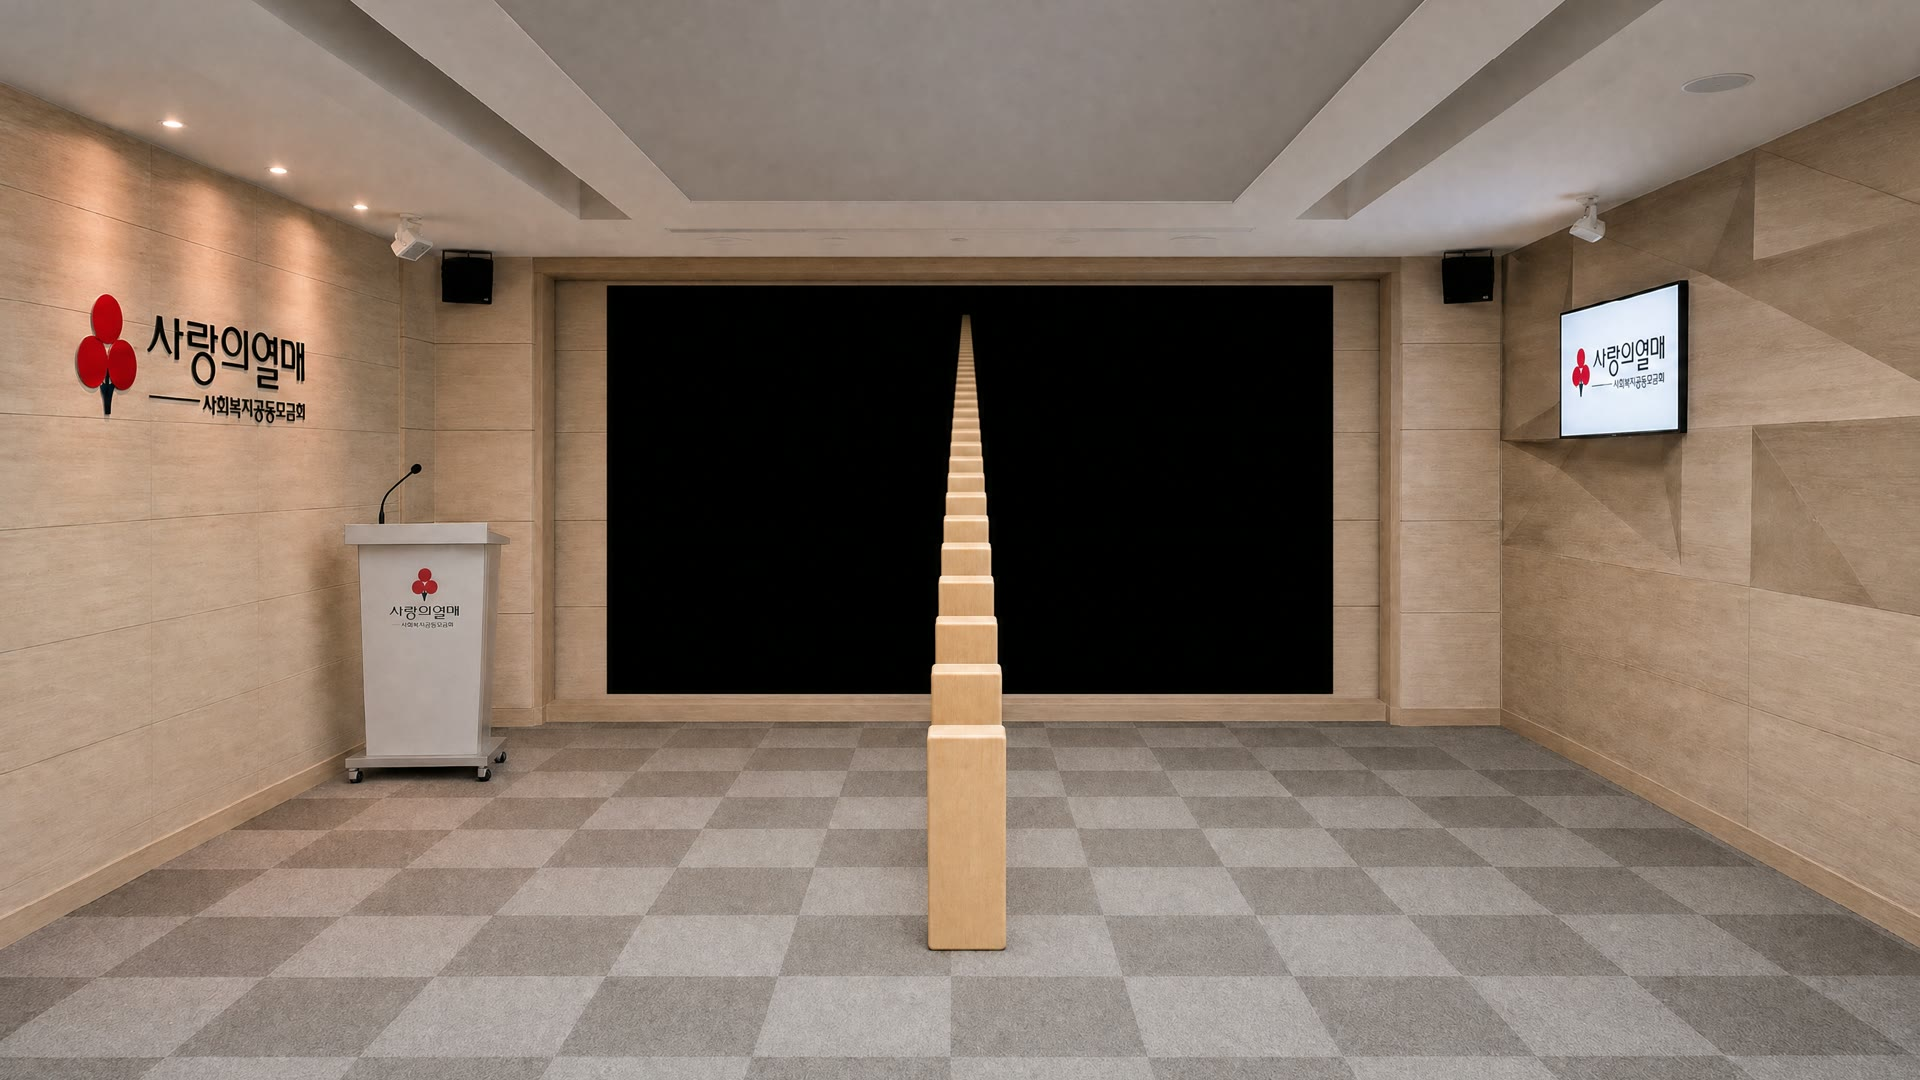
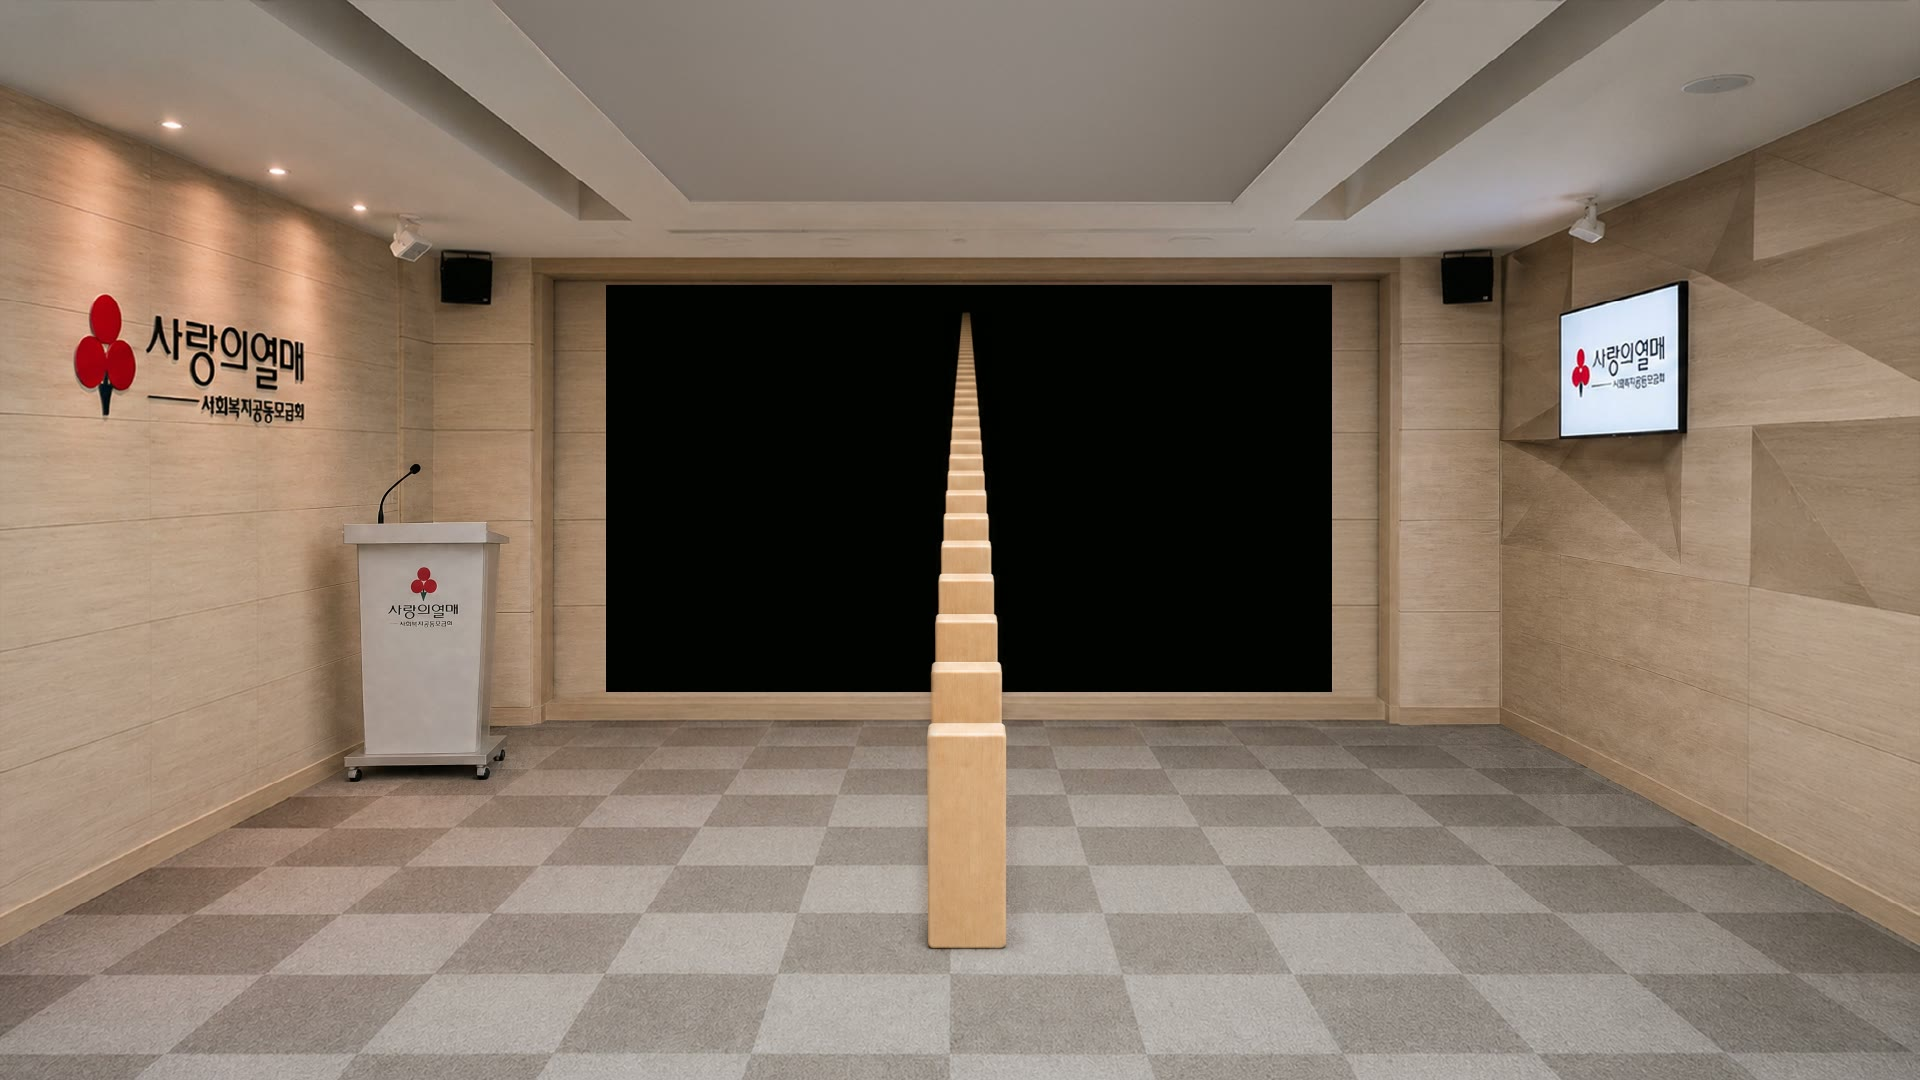
CUT 01 을 목업 창에서 꺼내 전체 화면으로 편다
그림 자체가 행사장 전경이라 목업 LED 창 안에 넣으면 방 안에 방이 들어간다.
CUTS 에 full 플래그를 두고, 걸린 컷은 프레임을 걷고 화면 레이어를 카드
전체로 편다(.sb-shot--full). 좌표계는 그대로 16:9 라 동선 가이드는 손대지
않아도 같은 자리에 얹힌다.

컷 그림도 iv1_1 로 바꾼다 — 실물 도미노 줄이 화면 쪽으로 곧게 뻗은 컷이다.

diff --git a/js/storyboard.js b/js/storyboard.js
@@ -25,7 +25,7 @@
      그 한 장에서만 의미가 있고, 나머지는 화면 안 장면이라 얹으면 방해만 된다. */
   var CUTS = [
     { no: 'CUT 01', ph: '-',
-      img: 'assets/led/cut01.jpg',
+      img: 'assets/led/cut01.jpg', full: true,
       sensor: 'KINECT', tag: 'DOMINO DOWN',
       people: [878, 1058], walk: [-215, 215], arrive: true,
       floor: [{ x: 45.73, y: 73.15, type: 'mark', rot: -73 },
@@ -243,10 +243,14 @@
           '<span class="sb-led__no">' + String(i + 1).padStart(2, '0') + '</span>' +
           '<span class="sb-led__t">' + esc(c.ph) + '</span>' +
         '</span>';
-    /* lit — 기념촬영 컷은 장내 조명이 올라오므로 목업을 어둡게 누르지 않는다 */
-    return '<span class="sb-shot' + (c.lit ? ' sb-shot--lit' : '') + '">' +
+    /* lit  — 기념촬영 컷은 장내 조명이 올라오므로 목업을 어둡게 누르지 않는다
+       full — 그림 자체가 이미 행사장 전경인 컷. 목업 창 안에 넣으면 방 안에 방이
+              들어가므로 프레임을 걷고 화면 레이어를 카드 전체로 편다. 동선 가이드는
+              같은 16:9 좌표계를 쓰므로 그대로 얹힌다. */
+    return '<span class="sb-shot' + (c.lit ? ' sb-shot--lit' : '') + (c.full ? ' sb-shot--full' : '') + '">' +
              '<span class="sb-shot__screen">' + screen + '</span>' +
-             '<img class="sb-shot__frame" src="assets/mockup/mockup10.png" alt="행사장 LED 월 설치 뷰" draggable="false" />' +
+             (c.full ? '' :
+               '<img class="sb-shot__frame" src="assets/mockup/mockup10.png" alt="행사장 LED 월 설치 뷰" draggable="false" />') +
              /* 동선 가이드는 비워 두고 필요할 때 채워 넣는다 — DOM 에 들어오는
                 순간이 곧 걸음 애니메이션의 시작점이라, 마크업에 미리 깔아 두면
                 그 컷을 펼치기도 전에 이미 다 끝나 있다. */

diff --git a/css/storyboard.css b/css/storyboard.css
@@ -86,6 +86,11 @@
 }
 .sb-shot__screen img { position: absolute; inset: 0; width: 100%; height: 100%; object-fit: cover; }
 
+/* 그림 자체가 행사장 전경인 컷 — 목업 프레임 없이 카드 전체를 쓴다.
+   창 안에 넣으면 방 안에 방이 들어가고, 안 그래도 좁은 창에서 도미노 줄이 뭉개진다.
+   좌표계는 그대로 16:9 라 동선 가이드(.sb-guide / .sb-people)는 손대지 않는다. */
+.sb-shot--full .sb-shot__screen { left: 0; top: 0; width: 100%; height: 100%; }
+
 /* 단계가 있는 컷 — 상태들을 겹쳐 두고 ← → 로 한 장씩 넘긴다.
    src 를 갈아끼우면 딱 끊겨 보이므로 불투명도 트랜지션으로 받는다. */
 .sb-shot__screen img.sb-var { opacity: 0; transition: opacity .55s var(--ease-soft); }

diff --git a/assets/led/README.md b/assets/led/README.md
@@ -6,19 +6,36 @@
 
 | 파일 | 출처 | 비고 |
 |---|---|---|
-| `cut01.jpg` ~ `cut09.jpg` | `iv1` ~ `iv9` | 1920×1080 으로 cover 크롭 |
+| `cut01.jpg` | `iv1_1` | **전체 화면.** 목업 프레임 없이 카드 전체를 쓴다 |
+| `cut02.jpg` ~ `cut09.jpg` | `iv2` ~ `iv9` | 목업 LED 창 안에 들어간다 |
 | CUT 10 | — | 아직 비어 있다. 이름만 든 판으로 그려진다 |
 
-원본은 대부분 2688×1520(≈16:9)이라 크롭 손실이 거의 없다. 예외는 `iv9` 하나로,
-736×1288 세로라 좌우가 크게 잘린다.
+전부 1920×1080 으로 cover 크롭한다. 원본이 대부분 2688×1520(≈16:9)이라 손실이
+거의 없다. 예외는 `iv9` 하나로, 736×1288 세로라 좌우가 크게 잘린다.
+
+## 전체 화면 컷(`full`)
+
+그림 자체가 이미 행사장 전경인 컷은 목업 창 안에 넣으면 **방 안에 방이 들어간다.**
+`js/storyboard.js` 의 `CUTS` 에 `full: true` 를 주면 프레임을 걷고 화면 레이어를
+카드 전체로 편다(`.sb-shot--full`). 좌표계는 그대로 16:9 라 동선 가이드는 손대지
+않아도 같은 자리에 얹힌다.
+
+지금은 CUT 01 에만 걸려 있다.
 
 ## 확인이 필요한 것 셋
 
-1. **`cut01` · `cut02` 는 행사장 전경 사진이다.** LED 창 안에 넣으면 방 안에 방이
-   들어간 그림이 된다. 이 둘은 03p 무대 시안(`stage-plan-a/b`) 자리가 아닌지.
+1. **`cut02` 도 행사장 전경이다.** 목업 창 안에 들어가 방 안에 방이 된다. CUT 01
+   처럼 `full` 로 돌릴지, 아니면 03p 무대 시안(`stage-plan-a/b`) 자리로 뺄지.
 2. **`cut09` 는 미니어처 카페 컷이다.** 로고와 영문 간판이 그대로 보여 스타일
    레퍼런스로 보인다. 컷 순서에 들어갈 그림이 맞는지.
 3. **CUT 10 이 비어 있다.** 열 컷 구성이면 한 장이 더 필요하다.
+
+## 사람 픽토그램과 원근 — CUT 01
+
+가이드 좌표는 목업(`mockup10`)의 바닥 원근에 맞춰 잡은 값이라 `iv1_1` 의 원근과
+정확히 맞지는 않는다. 두 사람은 도미노 줄을 사이에 두고 서지만, 그 깊이에서의
+도미노는 그림상 훨씬 작다. 지금은 「두 분이 가운데 줄을 함께 민다」가 읽히는
+수준이라 그대로 뒀다 — 컷 문구를 확정할 때 같이 본다.
 
 ## 이어서 할 것
 
